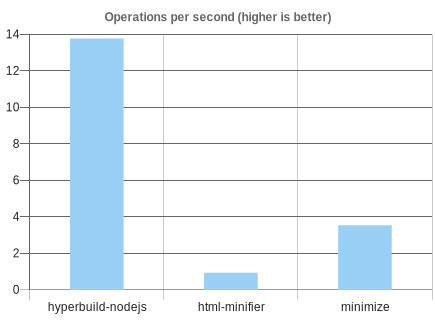
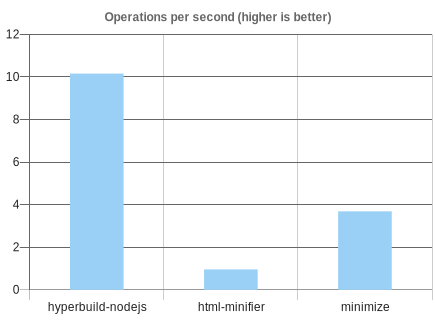
Improve closing tag minification; update bench results

diff --git a/bench/bench.js b/bench/bench.js
@@ -1,57 +1,11 @@
 "use strict";
 
-const benchmark = require("benchmark");
+const benchmark = require('benchmark');
 const chartjs = require('chartjs-node');
-const fs = require("fs");
-const htmlMinifier = require("html-minifier");
-const hyperbuild = require("hyperbuild");
-const minimize = require("minimize");
-const path = require("path");
-
-const testsDir = path.join(__dirname, "tests");
-const tests = fs.readdirSync(testsDir).map(name => ({
-  name,
-  content: fs.readFileSync(path.join(testsDir, name), "utf8"),
-}));
-
-const programs = {
-  'hyperbuild-nodejs': content => hyperbuild.minify_in_place(Buffer.from(content)),
-  'html-minifier': content => htmlMinifier.minify(content, {
-    caseSensitive: false,
-    collapseBooleanAttributes: true,
-    collapseInlineTagWhitespace: true,
-    collapseWhitespace: true,
-    conservativeWhitespace: false,
-    customEventAttributes: [],
-    decodeEntities: true,
-    html5: true,
-    ignoreCustomComments: [],
-    ignoreCustomFragments: [/<\?[\s\S]*?\?>/],
-    includeAutoGeneratedTags: true,
-    keepClosingSlash: false,
-    minifyCSS: false,
-    minifyJS: false,
-    minifyURLs: false,
-    preserveLineBreaks: false,
-    preventAttributesEscaping: false,
-    processConditionalComments: true,
-    processScripts: [],
-    removeAttributeQuotes: true,
-    removeComments: true,
-    removeEmptyAttributes: false,
-    removeEmptyElements: false,
-    removeOptionalTags: true,
-    removeRedundantAttributes: true,
-    removeScriptTypeAttributes: true,
-    removeStyleLinkTypeAttributes: true,
-    removeTagWhitespace: true,
-    sortAttributes: false,
-    sortClassName: false,
-    trimCustomFragments: false,
-    useShortDoctype: true,
-  }).length,
-  'minimize': content => new minimize().parse(content).length,
-};
+const fs = require('fs');
+const path = require('path');
+const programs = require('./minifiers');
+const tests = require('./tests');
 
 const colours = [
   {
@@ -129,7 +83,7 @@ const setSize = (program, test, result) => {
 for (const t of tests) {
   for (const p of Object.keys(programs)) {
     try {
-      setSize(p, t.name, programs[p](t.content));
+      setSize(p, t.name, programs[p](t.content).length);
     } catch (err) {
       console.error(`Failed to run ${p} on test ${t.name}:`);
       console.error(err);

diff --git a/bench/minifiers.js b/bench/minifiers.js
@@ -1,0 +1,42 @@
+const htmlMinifier = require("html-minifier");
+const hyperbuild = require("hyperbuild");
+const minimize = require("minimize");
+
+module.exports = {
+  'hyperbuild-nodejs': content => hyperbuild.minify(Buffer.from(content)),
+  'html-minifier': content => htmlMinifier.minify(content, {
+    caseSensitive: false,
+    collapseBooleanAttributes: true,
+    collapseInlineTagWhitespace: true,
+    collapseWhitespace: true,
+    conservativeWhitespace: false,
+    customEventAttributes: [],
+    decodeEntities: true,
+    html5: true,
+    ignoreCustomComments: [],
+    ignoreCustomFragments: [/<\?[\s\S]*?\?>/],
+    includeAutoGeneratedTags: true,
+    keepClosingSlash: false,
+    minifyCSS: false,
+    minifyJS: false,
+    minifyURLs: false,
+    preserveLineBreaks: false,
+    preventAttributesEscaping: false,
+    processConditionalComments: true,
+    processScripts: [],
+    removeAttributeQuotes: true,
+    removeComments: true,
+    removeEmptyAttributes: false,
+    removeEmptyElements: false,
+    removeOptionalTags: true,
+    removeRedundantAttributes: true,
+    removeScriptTypeAttributes: true,
+    removeStyleLinkTypeAttributes: true,
+    removeTagWhitespace: true,
+    sortAttributes: false,
+    sortClassName: false,
+    trimCustomFragments: false,
+    useShortDoctype: true,
+  }),
+  'minimize': content => new minimize().parse(content),
+};

diff --git a/bench/run.js b/bench/run.js
@@ -1,0 +1,19 @@
+const fs = require('fs');
+const mkdirp = require('mkdirp');
+const path = require('path');
+const programs = require('./minifiers');
+const tests = require('./tests');
+
+for (const t of tests) {
+  for (const p of Object.keys(programs)) {
+    try {
+      const minPath = path.join(__dirname, 'min', p, t.name);
+      mkdirp.sync(path.dirname(minPath));
+      fs.writeFileSync(minPath, programs[p](t.content));
+    } catch (err) {
+      console.error(`Failed to run ${p} on test ${t.name}:`);
+      console.error(err);
+      process.exit(1);
+    }
+  }
+}

diff --git a/bench/tests.js b/bench/tests.js
@@ -1,0 +1,8 @@
+const fs = require('fs');
+const path = require('path');
+
+const testsDir = path.join(__dirname, "tests");
+module.exports = fs.readdirSync(testsDir).map(name => ({
+  name,
+  content: fs.readFileSync(path.join(testsDir, name), "utf8"),
+}));

diff --git a/src/unit/tag.rs b/src/unit/tag.rs
@@ -45,13 +45,15 @@ enum TagType {
 
 pub struct ProcessedTag {
     pub name: ProcessorRange,
-    pub closing_tag: Option<ProcessorRange>,
+    pub has_closing_tag: bool,
 }
 
 impl ProcessedTag {
     pub fn write_closing_tag(&self, proc: &mut Processor) -> () {
-        if let Some(tag) = self.closing_tag {
-            proc.write_range(tag);
+        if self.has_closing_tag {
+            proc.write_slice(b"</");
+            proc.write_range(self.name);
+            proc.write(b'>');
         };
     }
 }
@@ -153,7 +155,7 @@ pub fn process_tag(proc: &mut Processor, prev_sibling_closing_tag: Option<Proces
             // Write discarded tag closing characters.
             if is_void_tag { proc.write_slice(b">"); } else { proc.write_slice(b"/>"); };
         };
-        return Ok(ProcessedTag { name: tag_name, closing_tag: None });
+        return Ok(ProcessedTag { name: tag_name, has_closing_tag: false });
     };
 
     match tag_type {
@@ -163,10 +165,9 @@ pub fn process_tag(proc: &mut Processor, prev_sibling_closing_tag: Option<Proces
     };
 
     // Require closing tag for non-void.
-    let closing_tag = proc.checkpoint();
-    chain!(proc.match_seq(b"</").require()?.discard());
+    chain!(proc.match_seq(b"</").require_with_reason("closing tag")?.discard());
     chain!(proc.match_while_pred(is_valid_tag_name_char).require_with_reason("closing tag name")?.discard());
     chain!(proc.match_while_pred(is_whitespace).discard());
     chain!(proc.match_char(b'>').require()?.discard());
-    Ok(ProcessedTag { name: tag_name, closing_tag: Some(proc.consumed_range(closing_tag)) })
+    Ok(ProcessedTag { name: tag_name, has_closing_tag: true })
 }

diff --git a/README.md b/README.md
@@ -15,7 +15,7 @@ Available as:
 
 ## Performance
 
-Speed and effectiveness of Node.js version compared to other JS minifiers.
+Speed and effectiveness of Node.js version compared to [html-minfier](https://github.com/kangax/html-minifier) and [minimize](https://github.com/Swaagie/minimize).
 
 ![Chart showing speed of HTML minifiers](./bench/speed.png) ![Chart showing effectiveness of HTML minifiers](./bench/minification.png)
 
